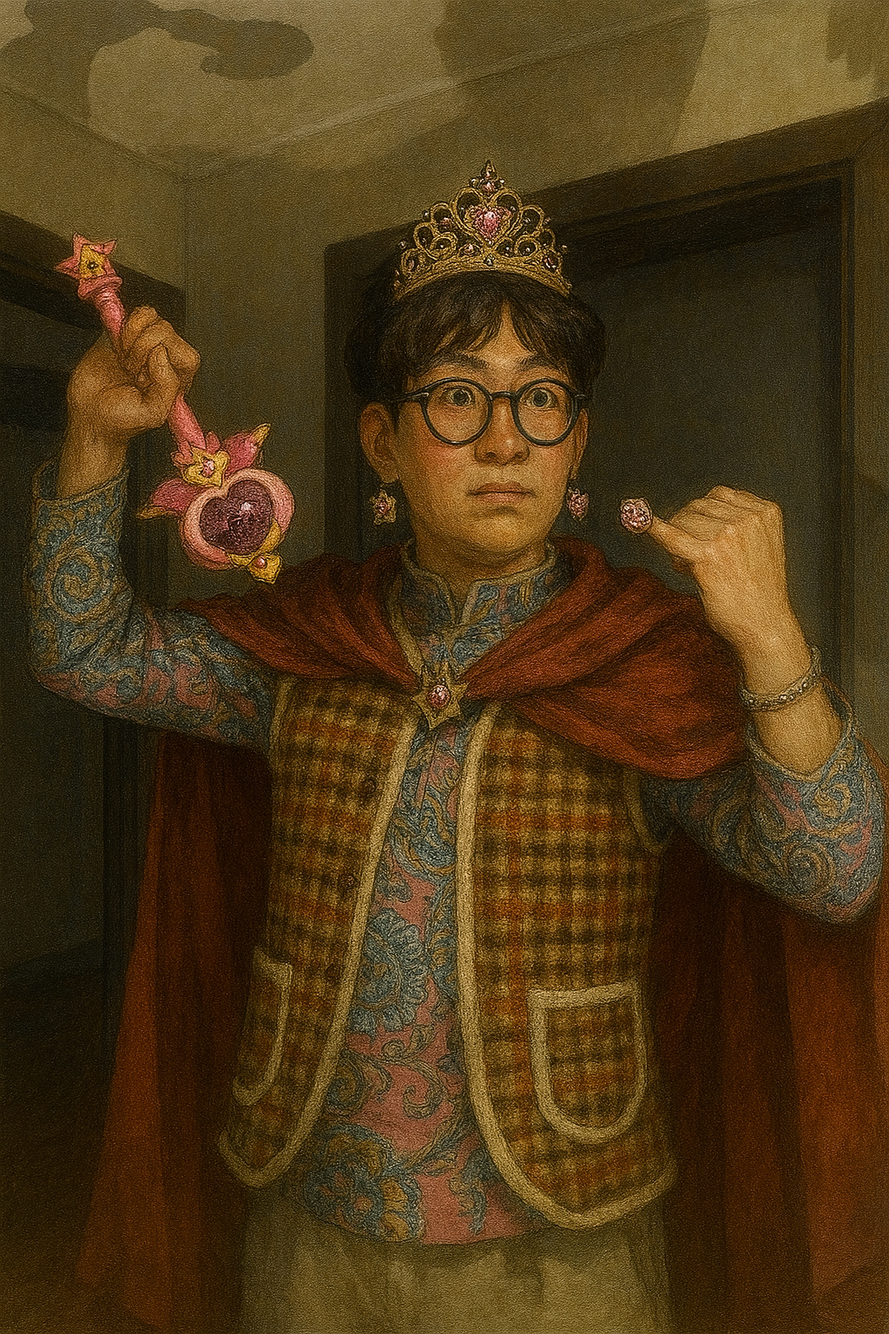
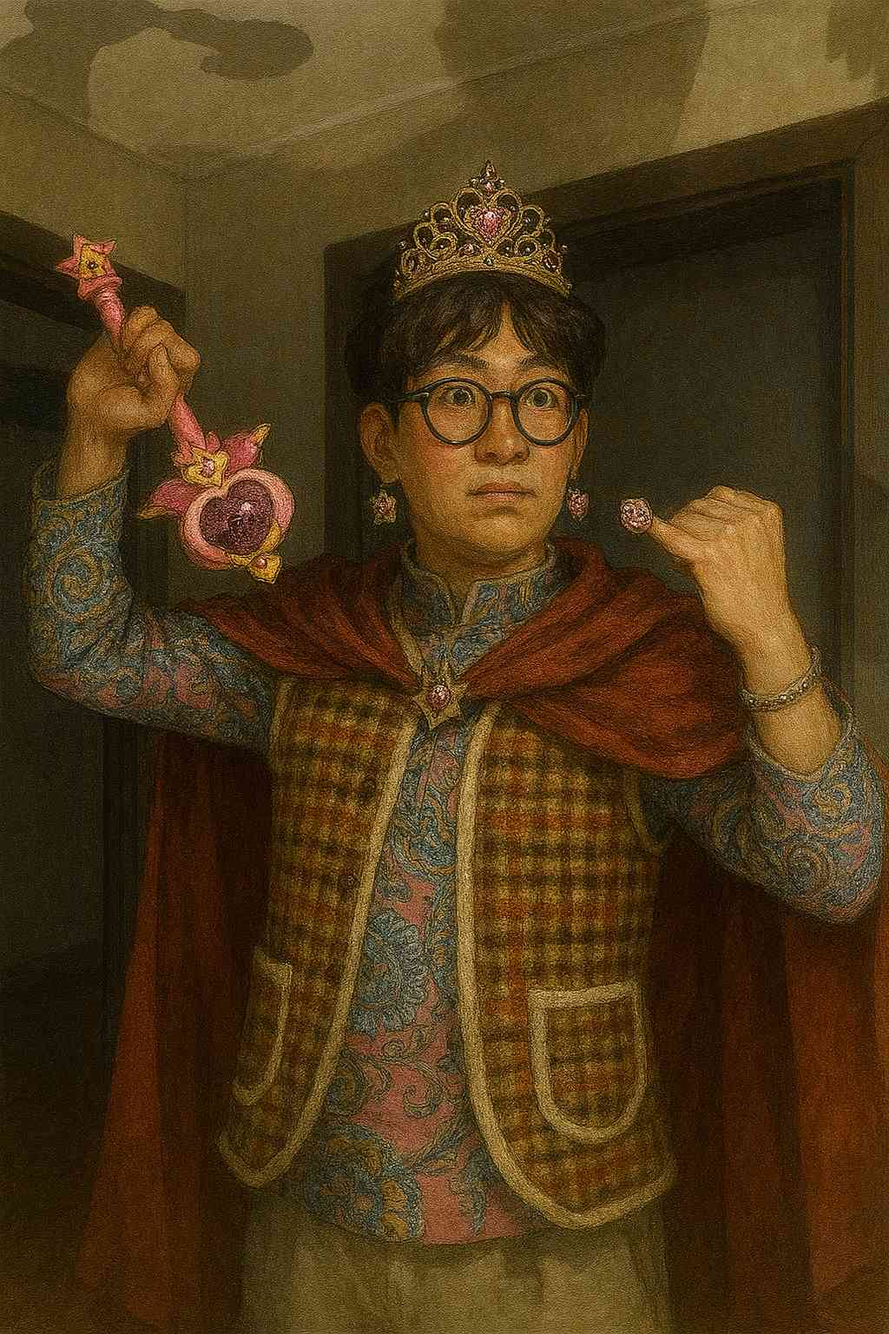
compress image

diff --git a/back/utils/compress_image.py b/back/utils/compress_image.py
@@ -1,0 +1,32 @@
+import os
+from PIL import Image
+import io
+
+def compress_image(image_path, output_path):
+    """이미지 압축 후 저장"""
+    with open(image_path, "rb") as image_file:
+        img = Image.open(image_file)
+        img = img.convert("RGB")
+        output = io.BytesIO()
+        img.save(output, format="JPEG", quality=30)  # quality를 낮춰 압축 비율을 높임
+        with open(output_path, 'wb') as f:
+            f.write(output.getvalue())  # 압축된 이미지 저장
+
+def compress_images_in_folder(input_folder, output_folder):
+    """assets 폴더 내 모든 이미지를 압축"""
+    if not os.path.exists(output_folder):
+        os.makedirs(output_folder)  # 압축된 이미지를 저장할 폴더가 없으면 생성
+
+    for filename in os.listdir(input_folder):
+        # 확장자가 .jpg, .jpeg, .png인 파일들만 처리
+        if filename.lower().endswith(('.jpg', '.jpeg', '.png')):
+            image_path = os.path.join(input_folder, filename)
+            output_path = os.path.join(output_folder, f"{filename}")
+            compress_image(image_path, output_path)
+            print(f"Compressed: {filename}")
+
+# 사용 예시
+input_folder = "../assets"  # 원본 이미지가 들어있는 폴더
+output_folder = "compressed_assets"  # 압축된 이미지를 저장할 폴더
+
+compress_images_in_folder(input_folder, output_folder)
